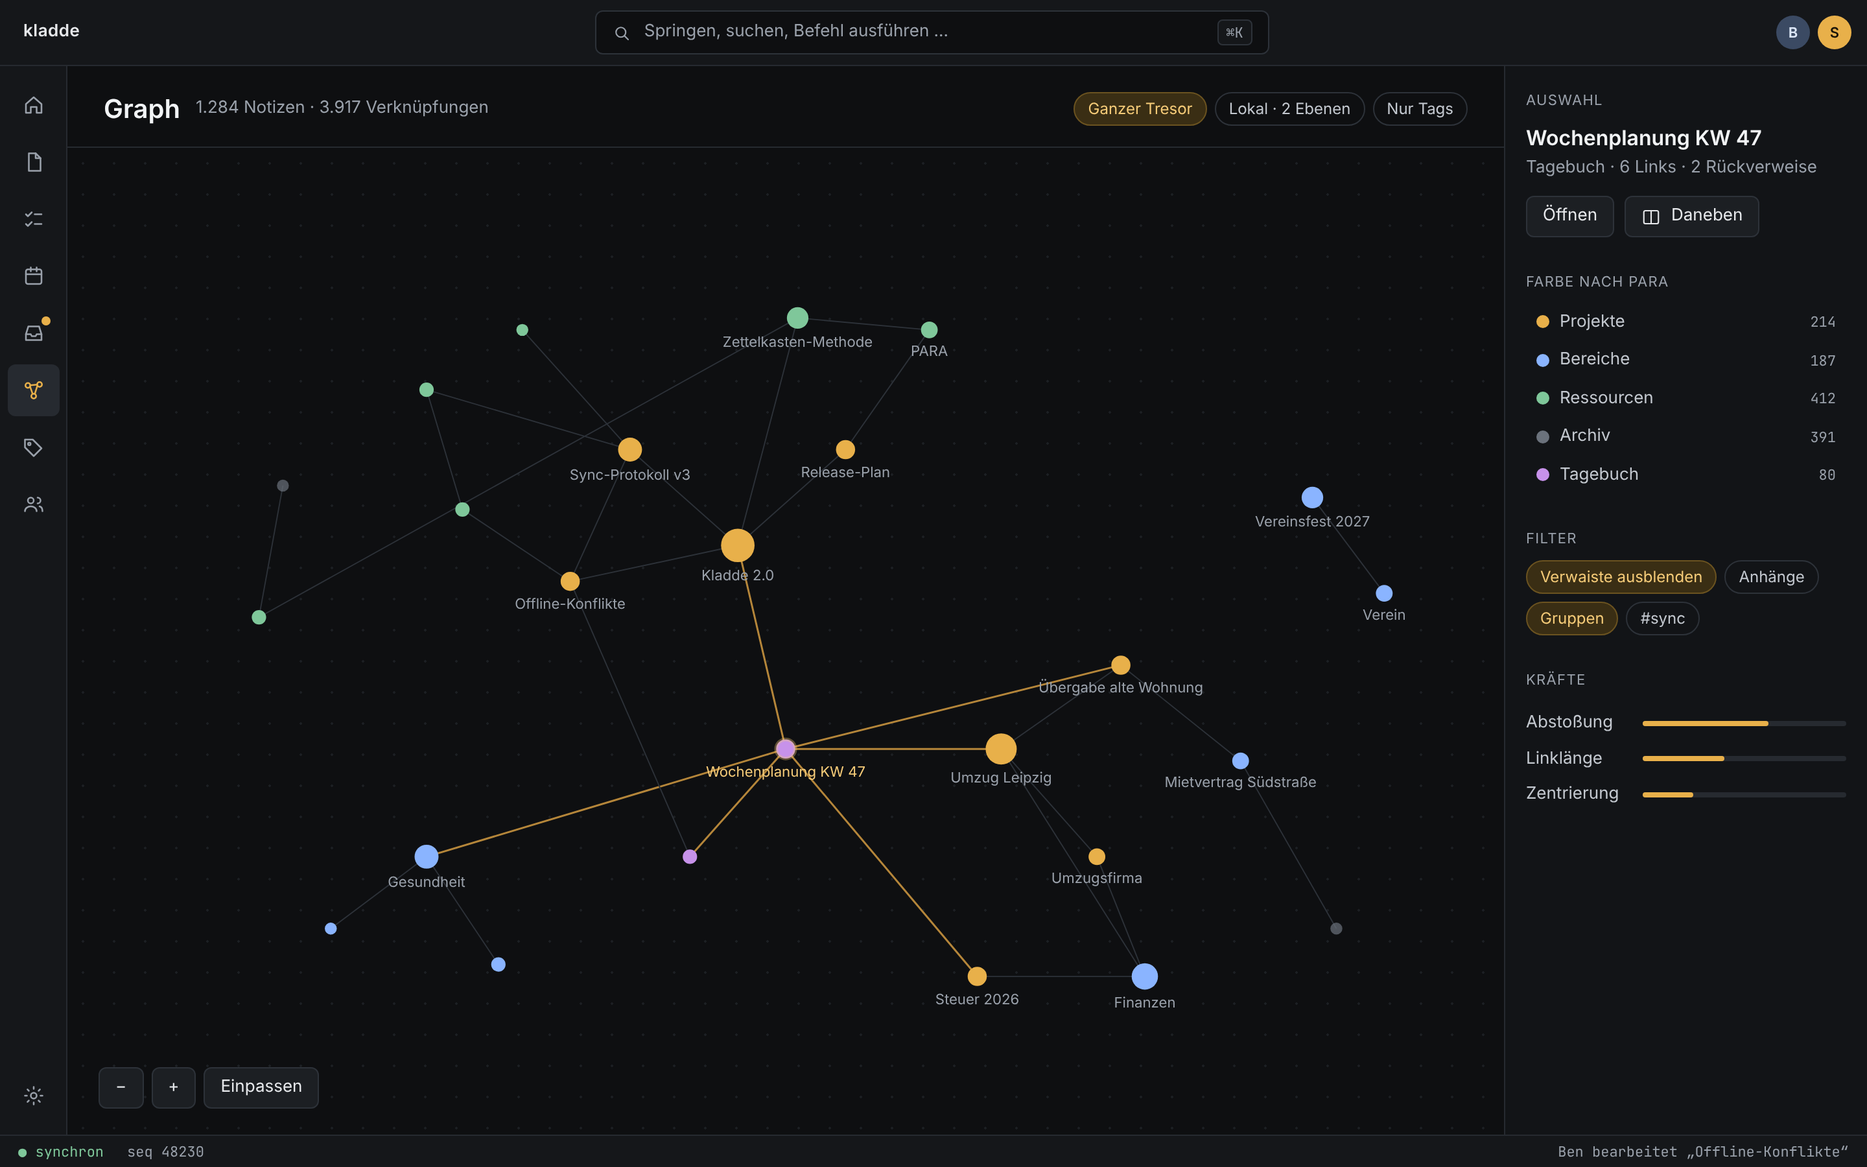
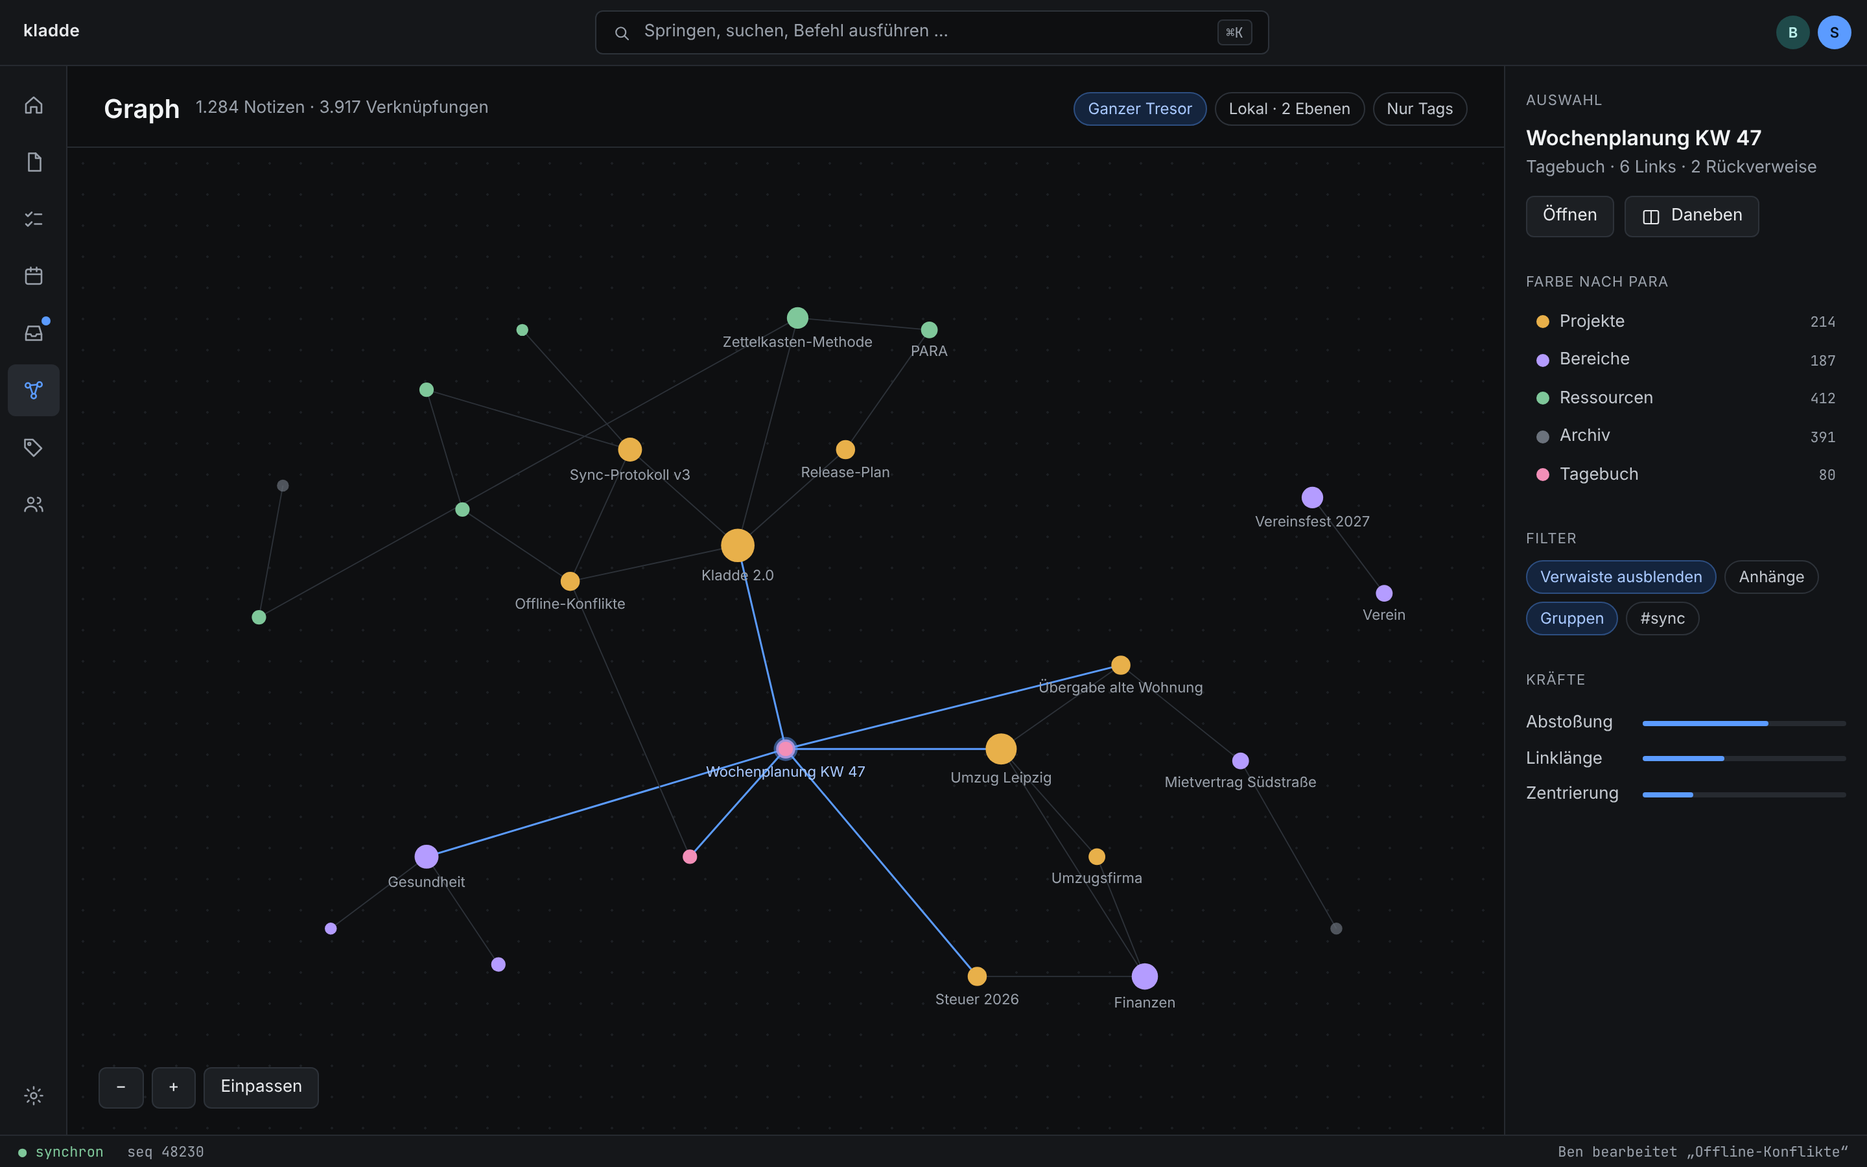
docs: add accent color choice and collapsible side panel to the design
Every user picks one of eight accent presets (default blue), stored with
the account; state and PARA colors stay fixed. The folder side panel
collapses with a button, Cmd+\ or the rail. Mockups now use the blue
accent and show the collapsed editor and the appearance settings.

Claude-Session: https://claude.ai/code/session_01T4jFQ8RhAmjiRGZscKqUJD

diff --git a/docs/DESIGN.md b/docs/DESIGN.md
@@ -14,8 +14,9 @@ Kladde is a tool for people with large vaults who write, link and plan every day
 
 - **Dense, calm, dark.** Graphite surfaces, small type, thin lines instead of filled surfaces and shadows. Much of
   the vault fits on the screen at once.
-- **One accent.** Amber marks what matters right now: the selection, the primary action, links, today. Everything else
-  is grey.
+- **One accent, chosen by each user.** The accent color marks what matters right now: the selection, the primary
+  action, links, the user's own cursor. Everything else is grey. The default is blue; every user can pick another one
+  (see [Accent color](#accent-color)).
 - **Keyboard first.** ⌘K opens the command palette from everywhere; shortcuts are shown next to the commands
   (`<kbd>`), and every action has one.
 - **State is visible.** A status bar shows sync, `seq`, word count and who else is working. Presence (avatars, remote
@@ -50,29 +51,75 @@ The dark scheme is the default. All values are CSS variables on `:root` (later
 | `--muted`  | `#9AA1AB` | 7.4 : 1            | Meta data, captions, icons, placeholders         |
 | `--faint`  | `#7D848E` | 5.1 : 1            | Completed tasks (with line-through)              |
 
-### Accent and states
+### Accent
 
-Every state has a foreground and a dark background ("pill"). Pairs are always used together.
+The accent is a set of five tokens. Components only use these tokens, never a fixed accent value, so changing the
+accent changes the whole interface at once.
+
+| Token        | Default (blue) | Use                                                                      |
+| ------------ | -------------- | ------------------------------------------------------------------------ |
+| `--acc`      | `#5B9BFF`      | Active rail entry and icons, primary button, links, done checkboxes, own cursor and avatar, focus ring |
+| `--acc-hi`   | `#A8C8FF`      | Text on `--acc-bg` (selected chips and segments), values in code         |
+| `--acc-bg`   | `#14243D`      | Background of selected chips and segments                                |
+| `--acc-line` | `#2D4E80`      | Underline of `[[links]]`, border of selected chips                       |
+| `--on-acc`   | `#08111F`      | Text and icons on a filled accent (primary button, checkbox tick)        |
+
+### Accent color
+
+Every user picks an accent color in *Settings › Appearance*. The choice belongs to the **account** and follows the
+user to all devices (unlike the color scheme, which stays per device). New accounts get **blue**.
+
+There is a fixed set of presets instead of a free color picker, because every preset is checked for contrast in both
+schemes:
+
+| Preset            | `--acc`   | `--acc-hi` | `--acc-bg` | `--acc-line` | `--on-acc` | `--acc` on `--bg` | `--on-acc` on `--acc` |
+| ----------------- | --------- | ---------- | ---------- | ------------ | ---------- | ----------------- | --------------------- |
+| Blau (default)    | `#5B9BFF` | `#A8C8FF`  | `#14243D`  | `#2D4E80`    | `#08111F`  | 6.9 : 1           | 6.8 : 1               |
+| Bernstein         | `#E8B04A` | `#F5CB78`  | `#3A2E14`  | `#6B5320`    | `#1A1408`  | 9.8 : 1           | 9.4 : 1               |
+| Grün              | `#4FC385` | `#9BE3B8`  | `#12301F`  | `#2A5C3E`    | `#06170D`  | 8.7 : 1           | 8.3 : 1               |
+| Türkis            | `#3EC1C4` | `#95E2E3`  | `#0F2E30`  | `#265B5D`    | `#041616`  | 8.8 : 1           | 8.5 : 1               |
+| Violett           | `#A98BFF` | `#CDBDFF`  | `#241B3F`  | `#46387A`    | `#130C26`  | 7.1 : 1           | 7.1 : 1               |
+| Rosa              | `#F27BB0` | `#F9B5D3`  | `#3A1729`  | `#6E2E4D`    | `#22081A`  | 7.5 : 1           | 7.4 : 1               |
+| Koralle           | `#F2876B` | `#F8B9A7`  | `#3A1D15`  | `#6E3828`    | `#220C05`  | 7.7 : 1           | 7.5 : 1               |
+| Graphit           | `#C3C8CF` | `#E6E8EB`  | `#262A30`  | `#4A5059`    | `#0E0F11`  | 11.4 : 1          | 11.4 : 1              |
+
+`--acc-hi` on `--acc-bg` is at least 9.1 : 1 for every preset; `--acc` on `--line` (active rail entry) at least
+5.2 : 1. The light scheme gets its own value set per preset (darker `--acc`, light `--acc-bg`).
+
+How it works:
+
+- The preset name is stored on the server with the account (e.g. `accent: 'blau'`), sent to the client with the
+  session and cached locally, so the app starts in the right color offline and without a flash.
+- The client sets `data-accent="blau"` on `<html>` (next to `data-scheme`); the token values live in CSS as
+  `[data-accent='gruen'] { --acc: …; }` blocks for each scheme. No inline styles, so the strict CSP is untouched.
+- The settings page shows the presets as round swatches with their name and a live preview (button, chip, link,
+  checkbox, own avatar). Picking one applies it at once.
+- Other people see you in your accent: avatar and cursor use your accent so you are recognizable in presence and
+  shared notes. If two people share an accent, the second one shown gets a neutral ring around the avatar.
+
+### States
+
+State colors do **not** follow the accent. They mean the same thing for everyone. Every state has a foreground and a
+dark background ("pill"); pairs are always used together.
 
 | Token                       | Foreground | Background | Contrast | Use                                         |
 | --------------------------- | ---------- | ---------- | -------- | ------------------------------------------- |
-| `--amber` / `--amber-bg`    | `#E8B04A`  | `#3A2E14`  | 8.7 : 1 ¹ | Accent: selection, links, today, primary   |
+| `--amber` / `--amber-bg`    | `#F5CB78`  | `#3A2E14`  | 8.7 : 1  | Today, in progress, warnings                |
 | `--red` / `--red-bg`        | `#F08A7E`  | `#3A1B18`  | 6.4 : 1  | Overdue, high priority, errors              |
-| `--blue` / `--blue-bg`      | `#8AB4FF`  | `#1A2740`  | 7.1 : 1  | Planned dates, recurring, other people      |
+| `--violet` / `--violet-bg`  | `#C3A6FF`  | `#2A2140`  | 7.4 : 1  | Planned dates, recurring tasks              |
 | `--ok` / `--ok-bg`          | `#7FC79A`  | `#16301F`  | 7.1 : 1  | Done, synced, saved                         |
-
-¹ Text on `--amber-bg` uses `--amber-hi` (`#F5CB78`). Text on a filled amber button is `#1A1408` (9.4 : 1).
-`--amber-line` (`#6B5320`) underlines `[[links]]` and borders selected chips.
 
 Rules:
 
-- Amber appears **at most once or twice per area**: the active rail entry, one primary button, the selected tab. If
-  everything is amber, nothing is.
+- The accent appears **at most once or twice per area**: the active rail entry, one primary button, the selected tab.
+  If everything is accented, nothing is.
 - Colors that must be told apart also differ in lightness (red vs. green pills), never in hue alone.
-- PARA colors (graph, folder dots): projects amber, areas blue, resources green, archive grey `#6B727C`, journal
-  violet `#C792EA`.
-- Presence: every person gets a fixed avatar color from a small set of muted tones (`#3B4A63`, `#4B3B5E`, …); the
-  current user is amber. Remote cursors use the person's light tone (e.g. `#8AB4FF`).
+- When the accent resembles a state color (Bernstein ≈ today, Grün ≈ done, Violett ≈ planned), state pills stay
+  recognizable by their dark background and their label; accent elements never use the pill shape.
+- PARA colors (graph, folder dots) are fixed too: projects amber `#E8B04A`, areas violet `#B49CFF`, resources green
+  `#7FC79A`, archive grey `#6B727C`, journal pink `#F28FB8`. The selected node and its links use the accent.
+- Presence: each person is shown in their own accent (see above); before their accent is known, a muted tone from a
+  small fixed set (`#1F4A4A`, `#4B3B5E`, …).
 
 ## Typography
 
@@ -109,7 +156,7 @@ Numbers in tables and counters use the mono font so columns line up.
 ## Icons
 
 Outline icons with round caps, 1.7px stroke at 18px (15px inside buttons and rows, 21px in the phone navigation bar),
-colored `--muted` by default and `--amber` when active. We keep the pipeline from `lib/icons.tsx` /
+colored `--muted` by default and `--acc` when active. We keep the pipeline from `lib/icons.tsx` /
 `scripts/gen-icons.mjs` and switch to Material Symbols Rounded **outlined, weight 300**, which matches this look; no
 filled icons.
 
@@ -129,22 +176,44 @@ filled icons.
 - **Top bar (48px):** logo, the command field in the middle (it is a button that opens the palette), avatars of the
   people online.
 - **Rail (52px):** Home, Notes, Tasks, Calendar, Inbox (dot for new items), Graph, Tags, Groups; settings at the
-  bottom. The active entry has `--line` background and an amber icon. Tooltips name every entry.
+  bottom. The active entry has `--line` background and an accent icon. Tooltips name every entry. The rail never
+  collapses.
 - **Side panel:** depends on the destination: the folder tree with pinned notes and groups (notes), views and saved
-  queries (tasks), nothing (graph). Resizable with `ResizeHandle`, can be collapsed.
-- **Main:** a page header (title, short summary, actions on the right) or the tab row of open notes (active tab: amber
+  queries (tasks), settings sections (settings), nothing (graph). Resizable with `ResizeHandle` and collapsible (see
+  [Collapsible side panel](#collapsible-side-panel)).
+- **Main:** a page header (title, short summary, actions on the right) or the tab row of open notes (active tab: accent
   line on top). Split view shows two editor columns side by side.
-- **Inspector:** optional, per note: outline, backlinks, unlinked mentions, properties. Collapses below 1280px.
+- **Inspector:** optional, per note: outline, backlinks, unlinked mentions, properties. Collapsible on its own with
+  ⌘⇧\\ and the button in its header.
 - **Status bar (24px, mono 11px):** `● synchron` in green (amber while syncing, red when offline), `seq`, counts that
   belong to the page, and on the right what others are doing ("Ben bearbeitet …").
+
+### Collapsible side panel
+
+The folder side panel can be collapsed so the editor gets the full width.
+
+- **Toggle:** the button at the right end of the side panel's caption row (next to the note count), the shortcut **⌘\\**
+  (Ctrl+\\ on Windows/Linux) and the command palette ("Seitenleiste ein-/ausblenden"). Dragging the `ResizeHandle`
+  below 160px collapses it as well.
+- **Collapsed:** the panel is gone completely; the rail stays. The tab row starts with a "show side panel" button
+  (tooltip with the shortcut), and the editor shows the note's folder path as a mono breadcrumb above the properties.
+  The editor column grows to max. 840px.
+- **Reopening** restores the last width. Clicking the active Notes entry in the rail also toggles the panel.
+- **Remembered per device** (like the width in `lib/sidebarWidth.ts`), because it depends on the screen.
+- **Settings › Appearance › Side panel:** "start collapsed" (off by default), "collapse automatically below 1280px"
+  (on by default; then the panel opens as an overlay over the editor and closes after a note is chosen), and whether
+  the inspector is shown.
+- Animation: width 160ms ease-out, none with `prefers-reduced-motion`. Focus moves to the toggle button when the
+  panel closes and to the tree when it opens.
+- On phones there is no side panel; the tree lives in the drawer as before.
 
 ### Phone (below `nav:`)
 
 - **Top bar (60px):** menu (opens the drawer with the tree) or back, title, at most two actions (search, ⋮), presence
   avatar inside a note.
-- **Bottom navigation bar:** Start, Notizen, Aufgaben, Eingang, Suche. The active destination is amber with a short
-  amber line above the icon; badges as on the rail.
-- **FAB (56px, amber, 14px radius):** on lists for "new note"/"new task", bottom right above the navigation bar.
+- **Bottom navigation bar:** Start, Notizen, Aufgaben, Eingang, Suche. The active destination is in the accent color
+  with a short accent line above the icon; badges as on the rail.
+- **FAB (56px, accent, 14px radius):** on lists for "new note"/"new task", bottom right above the navigation bar.
 - **Editor:** no navigation bar. Instead a formatting bar (heading, bold, list, task, link, attachment, undo) above the
   keyboard and a mono status line (saved, words, who else is here). Properties collapse to one line (status pill and
   tags) and expand on tap.
@@ -156,21 +225,24 @@ filled icons.
 | Component          | Look                                                                                         |
 | ------------------ | -------------------------------------------------------------------------------------------- |
 | Button             | 32px high, `--raised`, 1px `--line2`, 6px radius, icon 15px + label                          |
-| Primary button     | `--amber` fill, text `#1A1408`, weight 600; one per view                                      |
+| Primary button     | `--acc` fill, text `--on-acc`, weight 600; one per view                                       |
 | Icon button        | 40×40, transparent, `--muted` icon; `aria-label` always                                       |
-| Chip               | 26px, full radius, 1px `--line2`; selected: `--amber-bg`, `--amber-line`, `--amber-hi`        |
+| Chip               | 26px, full radius, 1px `--line2`; selected: `--acc-bg`, `--acc-line`, `--acc-hi`              |
 | Pill               | 19px high, 4px radius, state foreground on state background (see colors)                      |
 | Input / search     | 34px, `--bg` or `--panel`, 1px `--line2`, icon left, `kbd` hint right                         |
 | Card               | `--panel`, 1px `--line`, 8px radius; header row with an uppercase `label` and a mono count    |
 | List / tree row    | 5–11px vertical padding, selected: `--line` background, no extra border                       |
-| Tab                | 38px, selected: `--bg` with a 2px amber line on top, others `--muted`                         |
-| Checkbox           | 15px, 1.5px `#59616C` border (3.1 : 1), done: amber fill with dark tick, text line-through     |
+| Tab                | 38px, selected: `--bg` with a 2px `--acc` line on top, others `--muted`                       |
+| Checkbox           | 15px, 1.5px `#59616C` border (3.1 : 1), done: `--acc` fill with `--on-acc` tick, text line-through |
 | `kbd`              | mono 11px, 1px `--line2`, 4px radius, `--bar` background                                      |
 | Properties         | Two-column grid in a `--bar` card: key in `--muted`, value as text, pill or mono              |
-| Wiki link          | `--amber` text with a 1px `--amber-line` underline                                            |
-| Inline code        | mono 12.5px, `--raised`, `--amber-hi`, no wrapping                                            |
+| Wiki link          | `--acc` text with a 1px `--acc-line` underline                                                |
+| Inline code        | mono 12.5px, `--raised`, `--acc-hi`, no wrapping                                              |
 | Command palette    | 640px, 110px from the top, `--bar`, 10px radius, shadow; input row with scope chips, grouped results (notes, tasks, commands) with icons and shortcuts, hint row at the bottom |
-| Avatar             | 26px circle, initial in 11px/600                                                              |
+| Avatar             | 26px circle, initial in 11px/600, in the person's accent                                      |
+| Segmented control  | 1px `--line2`, 6px radius; selected segment `--acc-bg` with `--acc-hi` text                  |
+| Switch             | 36×20 track; on: `--acc` track with `--on-acc` knob, off: `--line2` track with `--muted` knob |
+| Accent swatch      | 36px circle (44px on phones) with the name below; selected: 2px ring in the color and a tick  |
 
 Dialogs keep the rules from CLAUDE.md (role, name, `useModal`).
 
@@ -182,6 +254,7 @@ Dialogs keep the rules from CLAUDE.md (role, name, `useModal`).
 | --- | --- |
 | ![Home](images/design/d1-start.png) **Home:** today's tasks, inbox with "sort in", activity, recently edited | ![Tasks](images/design/d2-aufgaben.png) **Tasks:** saved queries, query line, table grouped by due date |
 | ![Command palette](images/design/d3-befehlspalette.png) **Command palette:** notes, tasks and commands in one list | ![Graph](images/design/d4-graph.png) **Graph:** PARA colors, highlighted neighbours, inspector with filters and forces |
+| ![Editor with collapsed side panel](images/design/d5-editor-eingeklappt.png) **Editor, side panel collapsed:** toggle in the tab row, breadcrumb, wider column | ![Appearance settings](images/design/d6-darstellung.png) **Settings › Appearance:** accent presets with preview, scheme, density, side panel |
 
 ### Phone
 
@@ -189,21 +262,24 @@ Dialogs keep the rules from CLAUDE.md (role, name, `useModal`).
 | --- | --- | --- | --- |
 | ![Home](images/design/m1-start.png) | ![Notes](images/design/m2-notizen.png) | ![Editor](images/design/m3-editor.png) | ![Tasks](images/design/m4-aufgaben.png) |
 | Home | Notes | Editor with a remote cursor | Tasks |
+| ![Appearance](images/design/m5-darstellung.png) | | | |
+| Appearance (accent color) | | | |
 
 ## Accessibility
 
-- All text pairs above reach WCAG AA (4.5 : 1); most reach AAA. Control borders that carry meaning (checkbox)
+- All text pairs above reach WCAG AA (4.5 : 1) for every accent preset; most reach AAA. A new preset is only added
+  after the same checks. Control borders that carry meaning (checkbox)
   reach 3 : 1; plain dividers (`--line`, `--line2`) are decoration and need not.
-- Focus: a 2px `--amber` outline with 2px offset on every focusable element; never removed.
+- Focus: a 2px `--acc` outline with 2px offset on every focusable element; never removed.
 - The axe checks in `e2e/a11y.spec.ts` stay the gate for every screen and scheme.
 
 ## Open points
 
-- **Light scheme.** Werkbank is designed dark first. A light scheme (paper-white surfaces, graphite text, a darker amber
-  such as `#9A6A12` for text on white) has to be designed and checked before release; the `system` choice follows the
-  OS as today.
+- **Light scheme.** Werkbank is designed dark first. A light scheme (paper-white surfaces, graphite text, darker state
+  colors and a darker value set for every accent preset) has to be designed and checked before release; the `system`
+  choice follows the OS as today.
 - **`darker` tone.** Werkbank is already close to the old "darker" tone; it is probably dropped and mapped to dark.
-- **Screens not drawn yet:** calendar, inbox triage, settings, admin, sharing and group dialogs, database view, split
+- **Screens not drawn yet:** calendar, inbox triage, the other settings pages, admin, sharing and group dialogs, database view, split
   view, presentation mode.
 
 ## Migration plan
@@ -212,11 +288,15 @@ Dialogs keep the rules from CLAUDE.md (role, name, `useModal`).
    `tailwind.config.js` (colors, the type scale, radii). Keep the Material roles as aliases for one release so
    existing views keep working.
 2. Self-host Inter and JetBrains Mono through `@fontsource`; drop Roboto Flex.
-3. Rebuild the components in `@layer components` (`.btn-*`, `.chip`, `.input`, `.card`, `.segmented`, `Switch`) and
+3. Accent color: a numbered migration in `server/src/db.ts` that stores the preset per user (default `blau`), an API to
+   read and change it, `data-accent` on `<html>` (set early by the inline theme script from the cached value, which
+   needs a new CSP hash), the CSS blocks per preset and scheme, and the swatches in the settings.
+4. Rebuild the components in `@layer components` (`.btn-*`, `.chip`, `.input`, `.card`, `.segmented`, `Switch`) and
    regenerate the icons with weight 300.
-4. Replace `MaterialShell` with a Werkbank shell: top bar, rail, side panel, inspector, status bar; on phones the top
+5. Replace `MaterialShell` with a Werkbank shell: top bar, rail, collapsible side panel (⌘\\, state per device next to
+   `lib/sidebarWidth.ts`), inspector, status bar; on phones the top
    bar, bottom navigation bar, drawer and FAB. Keep the `nav:`, `phone:` and `tablet:` screens.
-5. Add the command palette as the central entry (it can grow out of `SearchDialog`).
-6. Move the views over one by one, remove the Material aliases, then update rule 4 in `CLAUDE.md` and the screenshots
+6. Add the command palette as the central entry (it can grow out of `SearchDialog`).
+7. Move the views over one by one, remove the Material aliases, then update rule 4 in `CLAUDE.md` and the screenshots
    in `docs/images`.
-7. Run the axe checks in all schemes and sizes; record the results in `docs/ACCESSIBILITY.md`.
+8. Run the axe checks in all schemes, sizes and accent presets; record the results in `docs/ACCESSIBILITY.md`.
